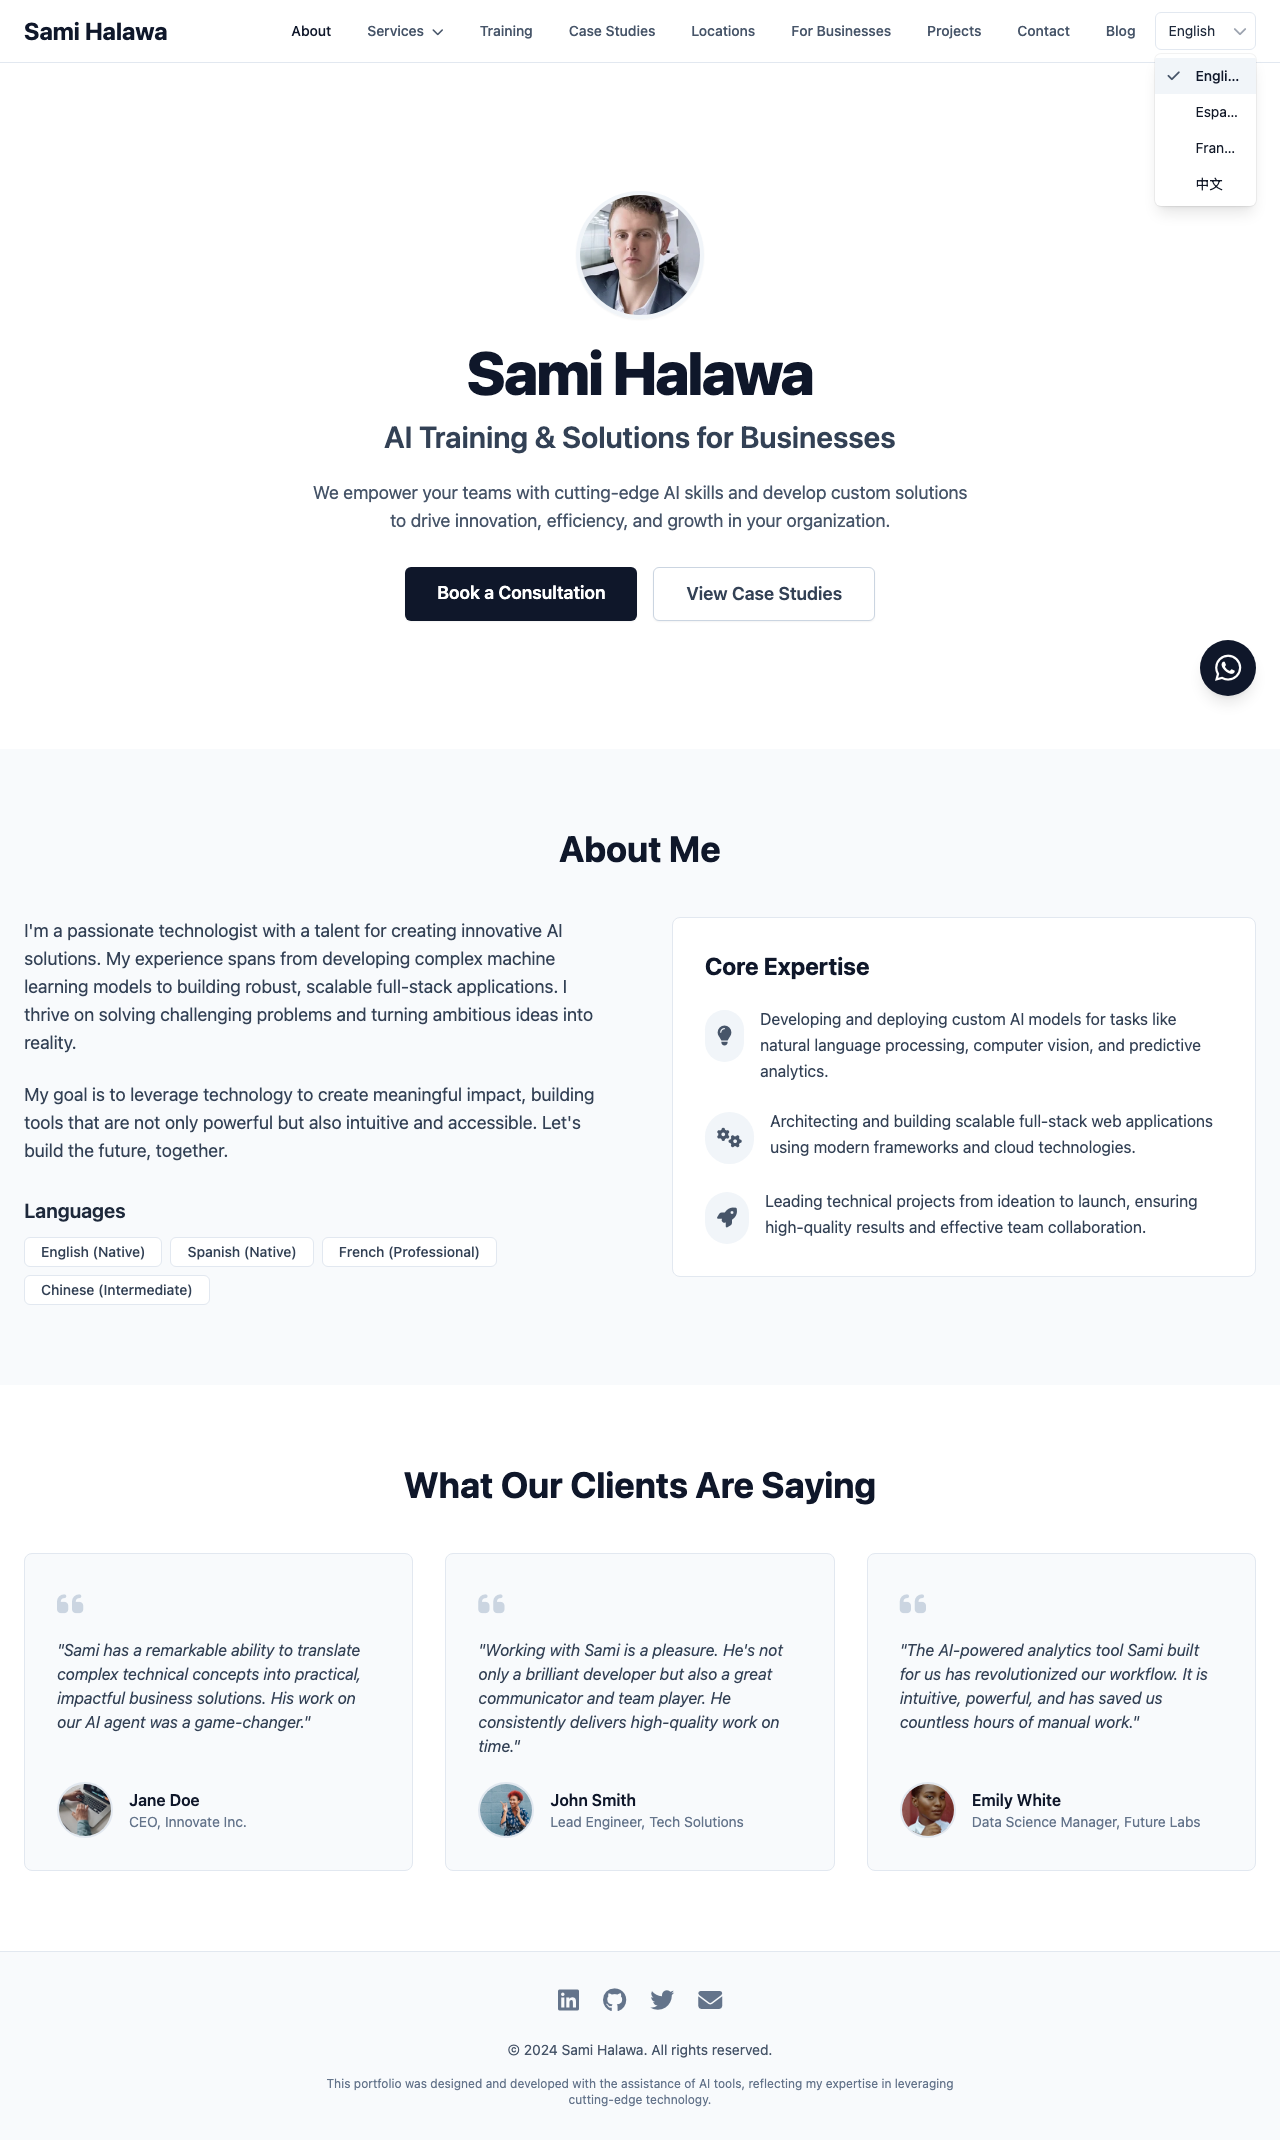
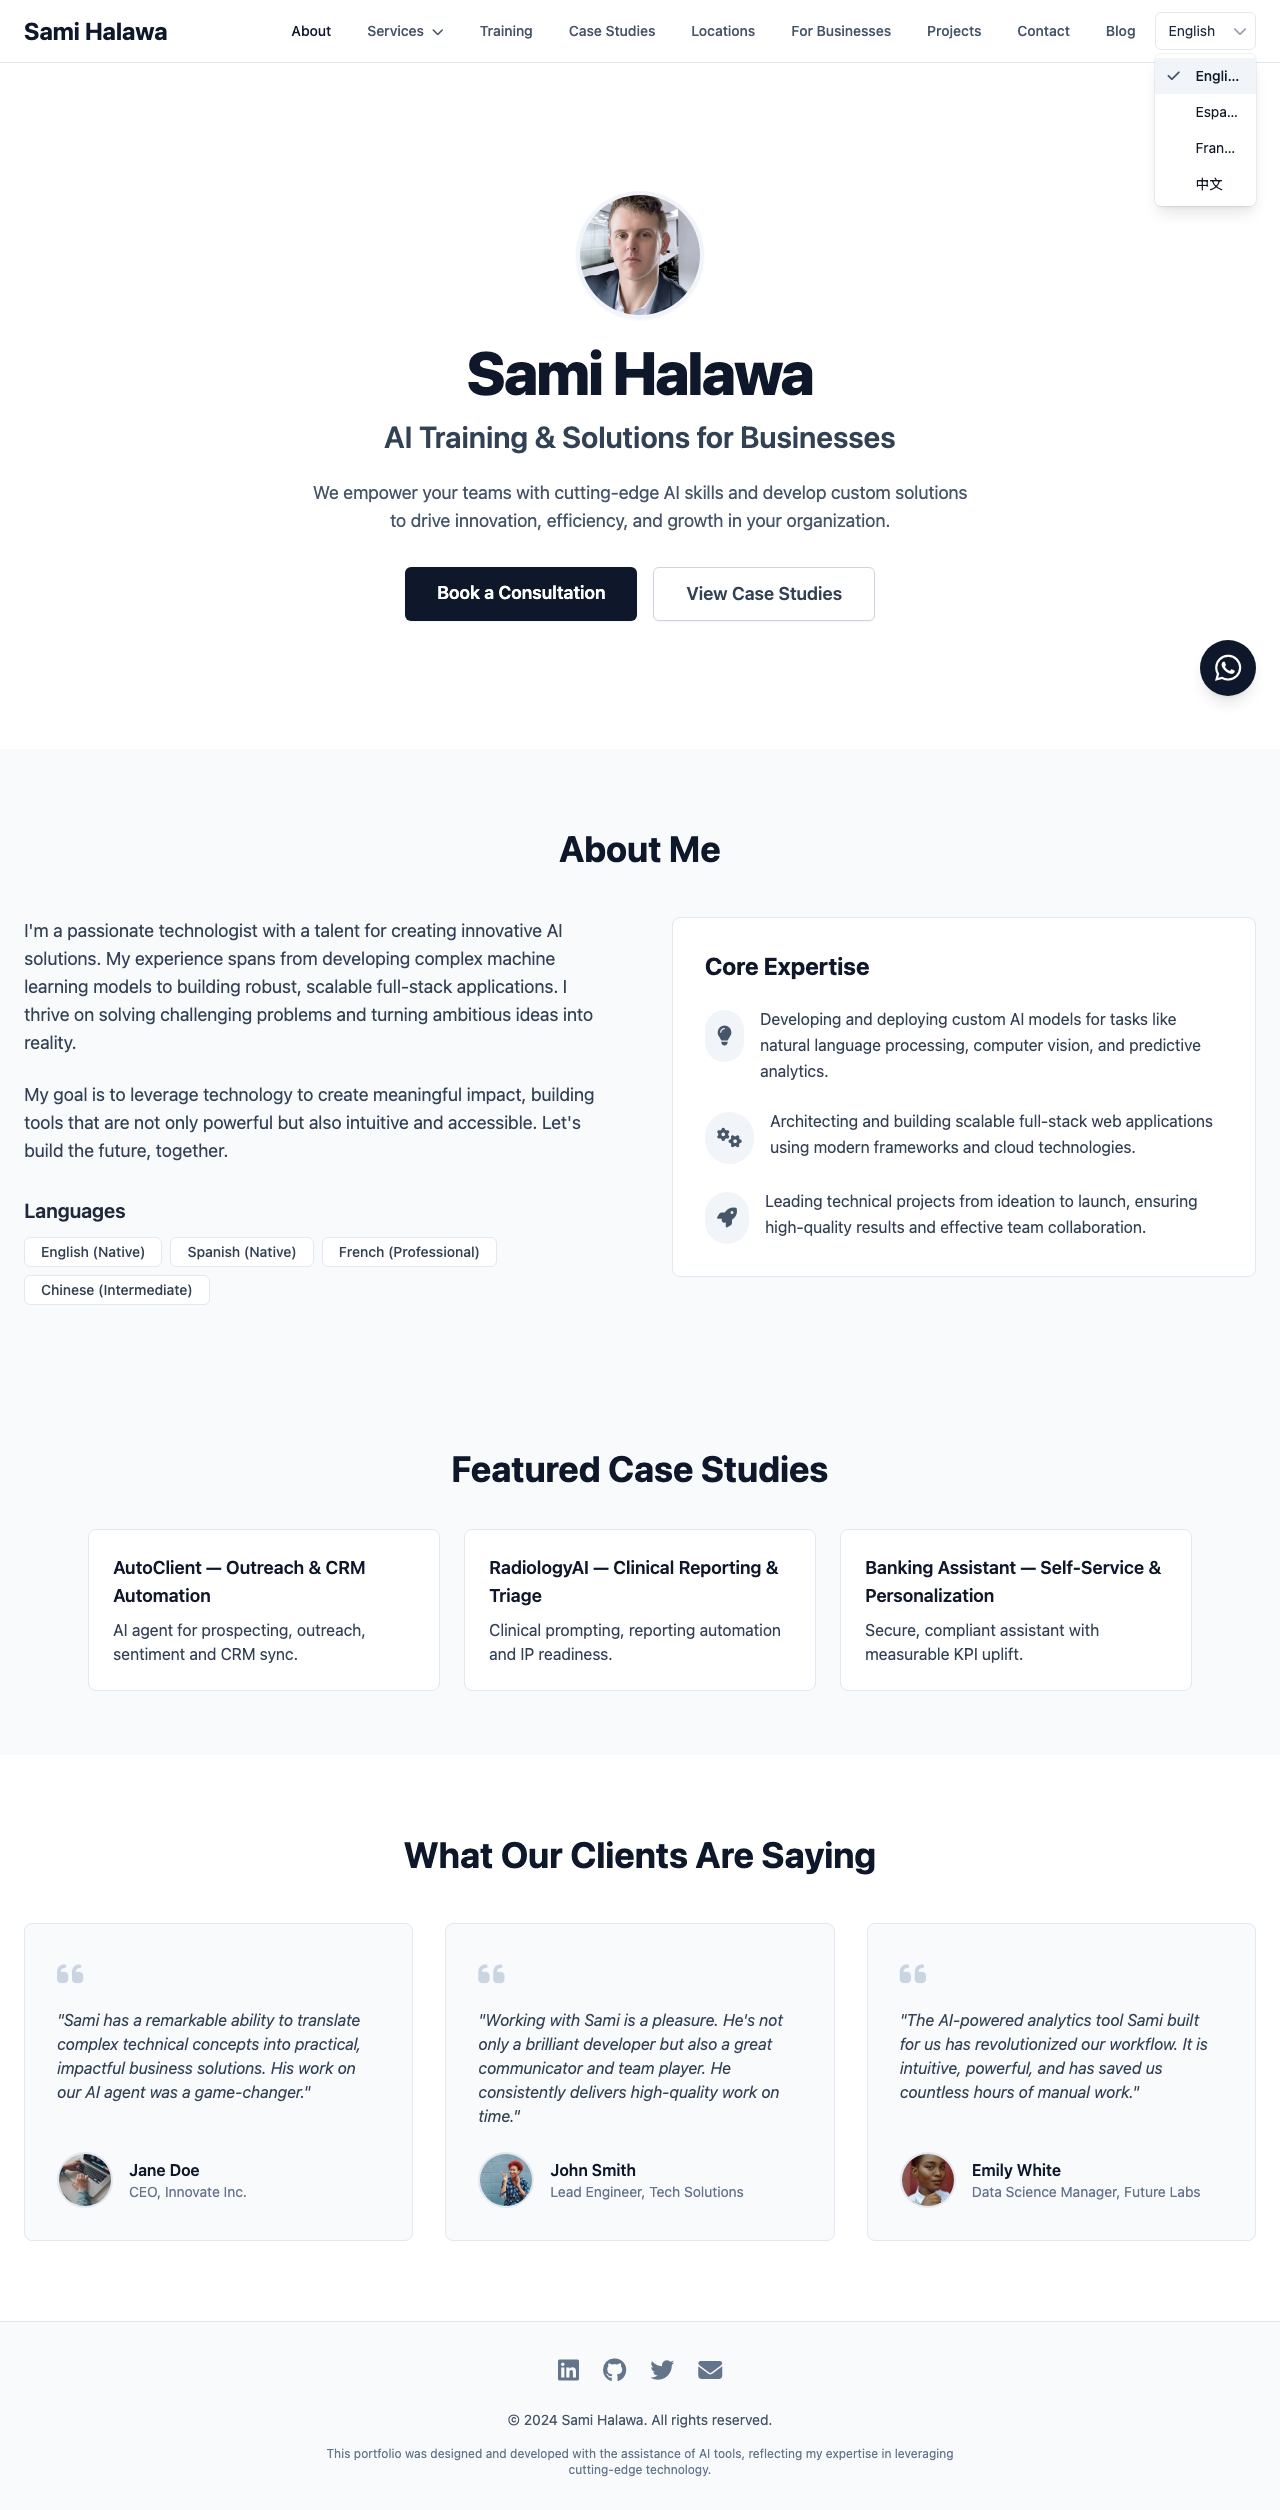
FR/ZH i18n for all service titles/descriptions; FeaturedCaseStudies on home; OG for Training; CTA+related links across services; add 4 richer case studies (Banking, Spreadsheet, PropTech, Airbnb); build + Playwright pass.

diff --git a/i18n/translations.ts b/i18n/translations.ts
@@ -480,6 +480,46 @@ const fr: typeof en = {
     'city.madrid': 'Madrid',
     'city.barcelona': 'Barcelone',
     'city.valencia': 'Valence',
+    'services.medicalAI.title': "IA Médicale : ChatGPT Clinique, Rapports Automatisés, Diagnostic Assisté",
+    'services.medicalAI.description': "Appliquez l'IA en clinique : rapports en 3 minutes, triage intelligent et aide au diagnostic, sans coder.",
+    'services.businessAutomation.title': "Automatisation avec l'IA : ChatGPT, Zapier, Make — Productivité x10 sans code",
+    'services.businessAutomation.description': "Automatisez vos flux, chatbots 24/7 et tableaux de bord en temps réel. Résultats en quelques semaines.",
+    'services.universityML.title': "Université : Python & Machine Learning, accompagnement de mémoire",
+    'services.universityML.description': "Cours pratiques ML : Python, scikit‑learn, TensorFlow, réseaux et encadrement TFG/TFM.",
+    'services.familyAI.title': "IA pour les Familles : enfants, ados et parents — pratique et sûre",
+    'services.familyAI.description': "Programme familial : jeux pour enfants, productivité pour parents et études pour ados. Sécurité avant tout.",
+    'services.advancedAI.title': "Projets IA Avancés : LangChain, AutoGPT, Agents MCP, Bases Vectorielles",
+    'services.advancedAI.description': "Concevez et livrez du RAG, des agents autonomes, pipelines ML et déploiements cloud.",
+    'services.noCodeAI.title': "Créer avec l'IA sans coder : Midjourney, Runway, ChatGPT",
+    'services.noCodeAI.description': "Images, vidéo et textes avec IA, et publication automatisée.",
+    'services.promptEngineering.title': "Prompt Engineering & Bonnes Pratiques LLM — Formation",
+    'services.promptEngineering.description': "Prompts système, outils, évaluation, sécurité et contrôle des coûts.",
+    'services.ragLangChain.title': "RAG & LangChain — Atelier de Récupération en Production",
+    'services.ragLangChain.description': "Embeddings, chunking, recherche hybride, re‑ranking et évaluateurs.",
+    'services.agentsAutomation.title': "Agents IA & Automatisation — De l'idée à l'opérationnel",
+    'services.agentsAutomation.description': "Workflows agents, approbations humaines, Zapier/Make/n8n et garde‑fous.",
+    'services.aiForMarketing.title': "IA pour le Marketing — Contenu, SEO, Ads & Analytics",
+    'services.aiForMarketing.description': "Systèmes de contenu, SEO programmatique, créations publicitaires et KPI.",
+    'services.aiFundingGrants.title': "Financements & Subventions IA — Non dilutifs",
+    'services.aiFundingGrants.description': "Veille, narration, budget et soumission des dossiers pour l'IA.",
+    'services.aiPatentsIP.title': "PI & Brevets IA — Stratégie, Rédaction & Préparation",
+    'services.aiPatentsIP.description': "Antériorités, stratégie de revendications, brouillons et figures.",
+    'services.acceleratorReadiness.title': "Accélérateur & Pitch — Deck, Démo & Narratif",
+    'services.acceleratorReadiness.description': "Deck investisseur, prototype, stratégie GTM et préparation Q&R.",
+    'services.aiReadinessAudit.title': "Audit AI Readiness — Évaluations, Sécurité & Budgets",
+    'services.aiReadinessAudit.description': "Audit prompts, chaînes, évaluations, garde‑fous et coûts avec plan.",
+    'services.aiCompetitiveResearch.title': "Recherche & Veille Concurrentielle IA — Blueprints",
+    'services.aiCompetitiveResearch.description': "Reverse engineering, analyse des données/API et plans de réplication.",
+    'services.dataScienceTraining.title': "Formation Data Science — Statistiques, ML & Évaluation",
+    'services.dataScienceTraining.description': "Classification, régression, réduction dimensionnelle et métriques.",
+    'services.proptechAnalytics.title': "Analytics PropTech — Pipelines, Valorisation & KPI",
+    'services.proptechAnalytics.description': "Pipelines immobiliers, modèles de valorisation, tableaux de bord.",
+    'services.airbnbAnalytics.title': "Intelligence Airbnb — Tarification & Occupation",
+    'services.airbnbAnalytics.description': "Collecte/Nettoyage, modèles de prix/occupation, benchmarking, alertes.",
+    'services.aiLanguageLearning.title': "IA pour l'Apprentissage des Langues — Parcours & Pratique",
+    'services.aiLanguageLearning.description': "Répétition espacée, prononciation et partenaires de conversation IA.",
+    'services.troubleshooting.title': "Support & Dépannage — Sauvetage ML et Correctifs",
+    'services.troubleshooting.description': "Audit, diagnostic et corrections rapides de projets IA.",
     'corporate.title': 'Formation et Solutions d\'Entreprise',
     'corporate.description': 'Nous proposons des programmes de formation en IA sur mesure et des services de conseil conçus pour répondre aux besoins spécifiques de votre organisation. Dotez vos équipes des compétences nécessaires pour tirer parti de l\'IA et obtenir un avantage concurrentiel.',
     'corporate.programsTitle': 'Nos Programmes de Formation',
@@ -656,6 +696,46 @@ const zh: typeof en = {
     'city.madrid': '马德里',
     'city.barcelona': '巴塞罗那',
     'city.valencia': '瓦伦西亚',
+    'services.medicalAI.title': '医疗AI：临床ChatGPT、自动报告、诊断辅助',
+    'services.medicalAI.description': '在临床实践中部署AI：3分钟出报告、智能分诊与诊断支持，无需编程。',
+    'services.businessAutomation.title': 'AI自动化：ChatGPT、Zapier、Make — 10倍效率无代码',
+    'services.businessAutomation.description': '业务流程自动化、7×24聊天机器人和实时看板；数周见效。',
+    'services.universityML.title': '高校课程：Python与机器学习，毕业项目支持',
+    'services.universityML.description': '面向大学生的实践ML：Python、scikit‑learn、TensorFlow与全程指导。',
+    'services.familyAI.title': '家庭AI：少儿/青少年/家长 — 实用且安全',
+    'services.familyAI.description': '家庭AI方案：少儿趣味、家长效率与青少年学习，安全至上。',
+    'services.advancedAI.title': '高级AI项目：LangChain、AutoGPT、MCP代理、向量数据库',
+    'services.advancedAI.description': 'RAG、自治代理、生产级ML流水线与云部署。',
+    'services.noCodeAI.title': '无代码AI创作：Midjourney、Runway、ChatGPT — 营销与内容',
+    'services.noCodeAI.description': '用AI生成图像、视频与文案，并自动发布，追求结果。',
+    'services.promptEngineering.title': '提示工程与LLM最佳实践 — 团队培训',
+    'services.promptEngineering.description': '系统提示、工具调用、评测、安全与成本控制，稳定交付功能。',
+    'services.ragLangChain.title': 'RAG与LangChain工作坊 — 生产级检索',
+    'services.ragLangChain.description': '嵌入、分块、混合检索、重排序与评测；可靠的RAG服务。',
+    'services.agentsAutomation.title': 'AI代理与自动化训练营 — 从想法到运营',
+    'services.agentsAutomation.description': '代理工作流、人工审批与Zapier/Make/n8n编排与护栏。',
+    'services.aiForMarketing.title': '营销AI — 内容、SEO、广告与分析',
+    'services.aiForMarketing.description': '内容系统、程序化SEO、广告素材与KPI看板，含模板。',
+    'services.aiFundingGrants.title': 'AI资金与补助 — 非稀释融资',
+    'services.aiFundingGrants.description': '机会筛选、材料撰写、预算与提交支持。',
+    'services.aiPatentsIP.title': 'AI知识产权与专利 — 策略、撰写与准备',
+    'services.aiPatentsIP.description': '现有技术检索、权利要求策略、草稿与图示。',
+    'services.acceleratorReadiness.title': '加速器与路演准备 — Deck、演示与叙事',
+    'services.acceleratorReadiness.description': '投资人Deck、原型、GTM与问答准备。',
+    'services.aiReadinessAudit.title': '企业AI就绪度审计 — 评测、安全与成本',
+    'services.aiReadinessAudit.description': '审计提示/链路/评测/护栏与成本，并提供加固计划。',
+    'services.aiCompetitiveResearch.title': 'AI研究与竞品情报 — 蓝图',
+    'services.aiCompetitiveResearch.description': '逆向分析、数据/API研究与复刻路线。',
+    'services.dataScienceTraining.title': '数据科学培训 — 统计、ML与评估',
+    'services.dataScienceTraining.description': '分类、回归、降维与指标；含Python笔记本。',
+    'services.proptechAnalytics.title': 'PropTech与房产分析 — 数据管道与洞察',
+    'services.proptechAnalytics.description': '房产数据管道、估值模型、仪表板与告警。',
+    'services.airbnbAnalytics.title': 'Airbnb情报 — 定价与入住率',
+    'services.airbnbAnalytics.description': '采集与清洗、定价/入住率模型、对标与监控。',
+    'services.aiLanguageLearning.title': '语言学习AI — 课程体系与练习',
+    'services.aiLanguageLearning.description': '间隔记忆、发音训练与AI对话伙伴，含安全指引。',
+    'services.troubleshooting.title': '支持与排障 — ML救援与自动化修复',
+    'services.troubleshooting.description': '快速审计、诊断与修复AI/自动化项目。',
     'corporate.title': '企业培训与解决方案',
     'corporate.description': '我们提供量身定制的人工智能培训项目和咨询服务，旨在满足您组织的特定需求。让您的团队掌握利用人工智能获得竞争优势的技能。',
     'corporate.programsTitle': '我们的培训项目',

diff --git a/components/FeaturedCaseStudies.tsx b/components/FeaturedCaseStudies.tsx
@@ -1,0 +1,28 @@
+import React from 'react';
+
+const items = [
+  { href: '/case-studies/autoclient', title: 'AutoClient — Outreach & CRM Automation', desc: 'AI agent for prospecting, outreach, sentiment and CRM sync.' },
+  { href: '/case-studies/radiology-ai', title: 'RadiologyAI — Clinical Reporting & Triage', desc: 'Clinical prompting, reporting automation and IP readiness.' },
+  { href: '/case-studies/banking-assistant', title: 'Banking Assistant — Self‑Service & Personalization', desc: 'Secure, compliant assistant with measurable KPI uplift.' },
+];
+
+const FeaturedCaseStudies: React.FC = () => {
+  return (
+    <section className="py-16 bg-slate-50" aria-label="Featured Case Studies">
+      <div className="container mx-auto px-6 max-w-6xl">
+        <h2 className="text-3xl md:text-4xl font-bold text-center mb-10 text-slate-900">Featured Case Studies</h2>
+        <div className="grid md:grid-cols-2 lg:grid-cols-3 gap-6">
+          {items.map(item => (
+            <a key={item.href} href={item.href} className="block bg-white p-6 rounded-lg border border-slate-200 hover:shadow-lg hover:-translate-y-0.5 transition-all">
+              <h3 className="text-lg font-semibold text-slate-900 mb-2">{item.title}</h3>
+              <p className="text-slate-700">{item.desc}</p>
+            </a>
+          ))}
+        </div>
+      </div>
+    </section>
+  );
+};
+
+export default FeaturedCaseStudies;
+

diff --git a/pages/HomePage.tsx b/pages/HomePage.tsx
@@ -2,6 +2,7 @@ import React from 'react';
 import { Helmet } from 'react-helmet-async';
 import Hero from '../components/Hero';
 import About from '../components/About';
+import FeaturedCaseStudies from '../components/FeaturedCaseStudies';
 import Testimonials from '../components/Testimonials';
 
 const HomePage: React.FC = () => {
@@ -13,6 +14,7 @@ const HomePage: React.FC = () => {
       </Helmet>
       <Hero />
       <About />
+      <FeaturedCaseStudies />
       <Testimonials />
     </>
   );
